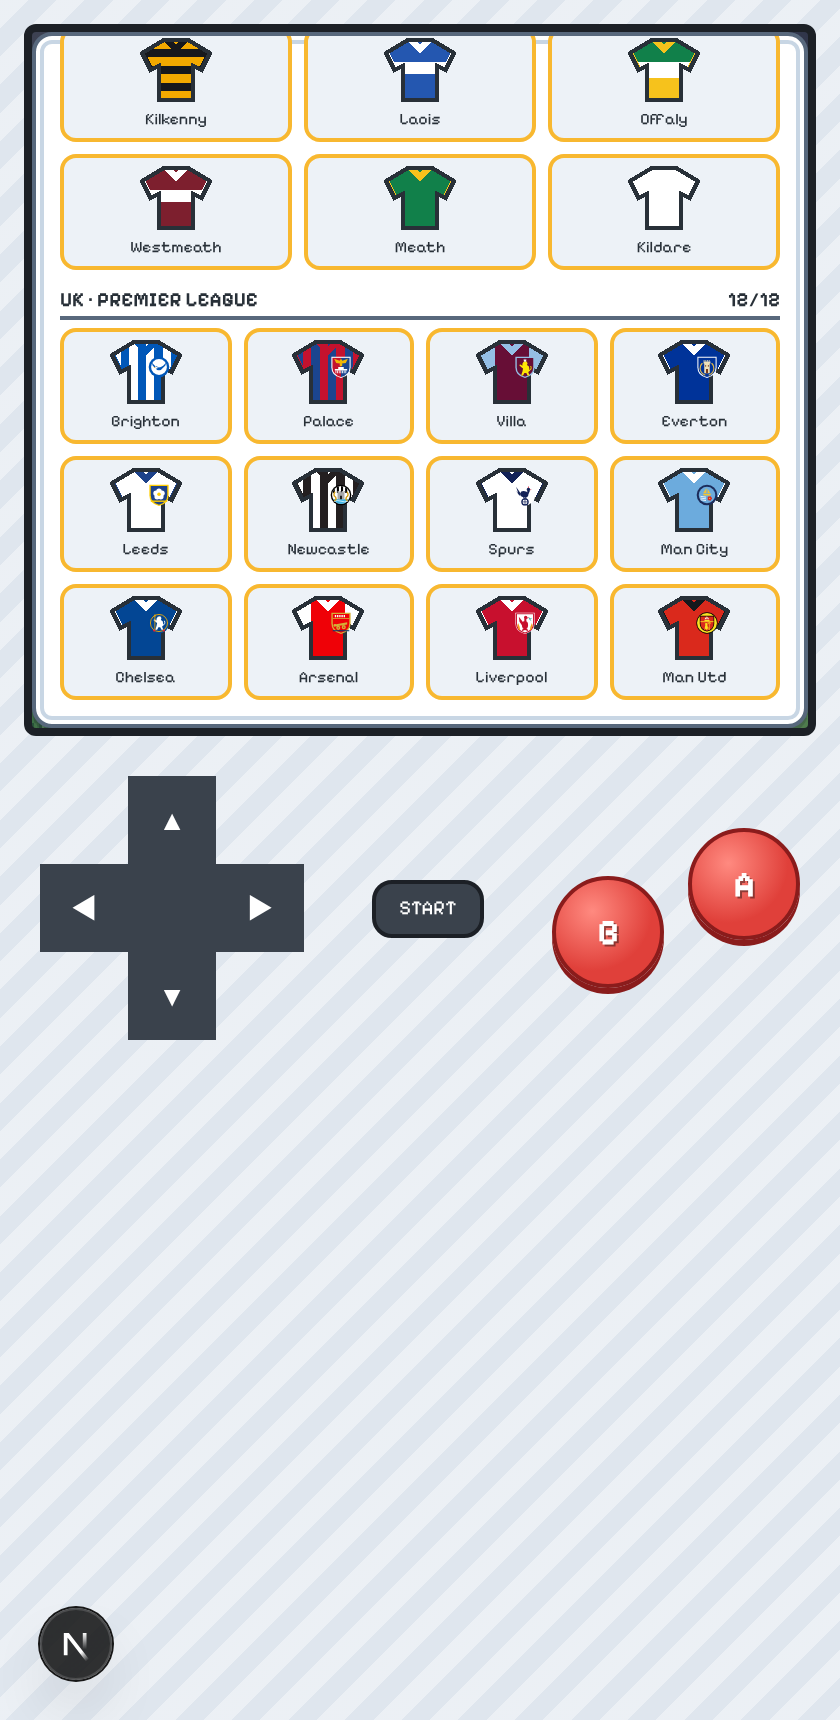
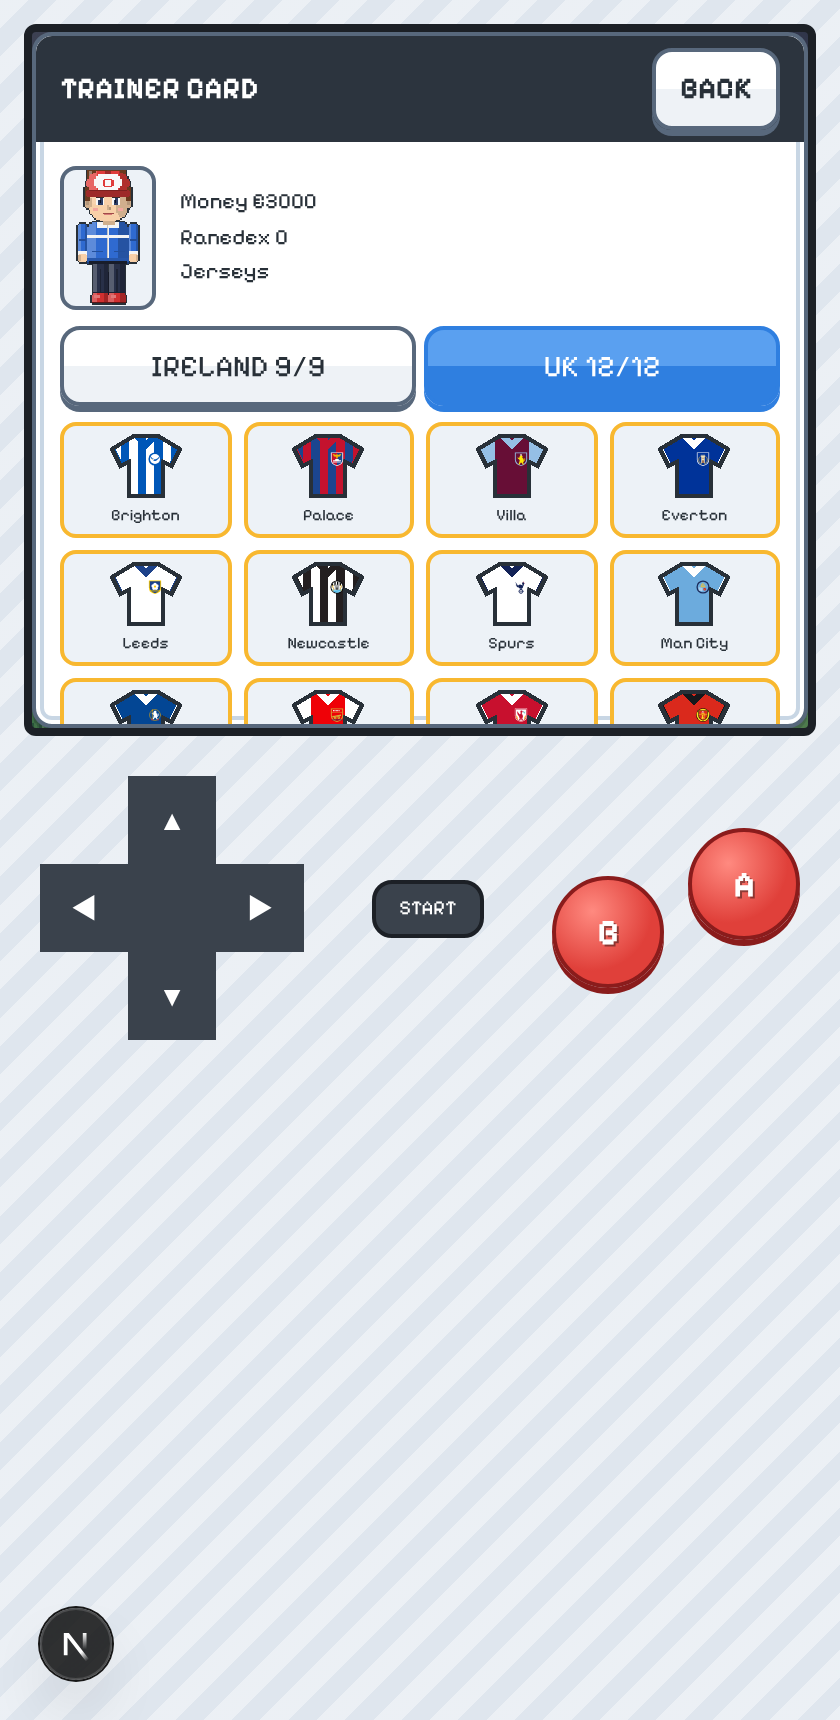
Trainer Card: Ireland and UK jerseys on tabs of their own, smaller crests on the chest
Tap a tab or press left/right on the D-pad to switch. Each tab shows
the won count. Club crests are smaller and sit over the heart.

Claude-Session: https://claude.ai/code/session_01RzSuE49ZsSCh2BwSykvX7o

Changed region(s): [[0.031, 0.0, 0.9595, 0.4314]]

diff --git a/src/components/story/Panels.tsx b/src/components/story/Panels.tsx
@@ -1146,12 +1146,49 @@ export function JerseysPanel({
   game,
   champion = false,
   onClose,
+  navRef,
 }: {
   game: StoryState;
   /** They hold the Online Champion's crown. */
   champion?: boolean;
   onClose: () => void;
+  navRef?: React.RefObject<MenuNav | null>;
 }) {
+  const ireland = COUNTIES.map((id) => {
+    const county = id.charAt(0).toUpperCase() + id.slice(1);
+    return {
+      id,
+      label: county,
+      title: mapById(id).name.split(', ').at(-1)!.replace('Co. ', ''),
+      kit: jerseyOf(id),
+      won: hasFlag(game, `jersey:${id}`),
+    };
+  });
+  const uk = FIXTURE_LIST.map((f) => ({
+    id: `pl-${f.id}`,
+    label: CLUB_SHORT[f.id],
+    title: `${f.club}, ${f.ground}`,
+    kit: clubJerseyOf(f.id),
+    won: hasFlag(game, f.flag),
+    crest: f.id,
+  }));
+  const [tab, setTab] = useState<'ireland' | 'uk'>('ireland');
+  const switchTab = (t: 'ireland' | 'uk') => {
+    if (t === tab) return;
+    playSfx('select');
+    setTab(t);
+  };
+  const tally = (js: { won: boolean }[]) => `${js.filter((j) => j.won).length}/${js.length}`;
+
+  // Left and right on the D-pad flick between the tabs; B closes the card.
+  useMenuNav(navRef, {
+    dir: (dir) => {
+      if (dir === 'left' || dir === 'right') switchTab(tab === 'ireland' ? 'uk' : 'ireland');
+    },
+    a: () => {},
+    b: () => false,
+  });
+
   return (
     <Panel title="TRAINER CARD" onClose={onClose}>
       {champion && (
@@ -1175,46 +1212,30 @@ export function JerseysPanel({
           {hasFlag(game, 'champion') ? 'CHAMPION OF IRELAND' : 'Jerseys'}
         </p>
       </div>
-      <JerseyGroup
-        title="IRELAND"
-        testId="jerseys-ireland"
-        columns="grid-cols-3"
-        jerseys={COUNTIES.map((id) => {
-          const county = id.charAt(0).toUpperCase() + id.slice(1);
-          return {
-            id,
-            label: county,
-            title: mapById(id).name.split(', ').at(-1)!.replace('Co. ', ''),
-            kit: jerseyOf(id),
-            won: hasFlag(game, `jersey:${id}`),
-          };
-        })}
+      <Tabs
+        label="Jerseys"
+        tabs={[
+          { id: 'ireland', label: `IRELAND ${tally(ireland)}` },
+          { id: 'uk', label: `UK ${tally(uk)}` },
+        ]}
+        value={tab}
+        onPick={switchTab}
       />
-      <JerseyGroup
-        title="UK · PREMIER LEAGUE"
-        testId="jerseys-uk"
-        columns="grid-cols-4"
-        jerseys={FIXTURE_LIST.map((f) => ({
-          id: `pl-${f.id}`,
-          label: CLUB_SHORT[f.id],
-          title: `${f.club}, ${f.ground}`,
-          kit: clubJerseyOf(f.id),
-          won: hasFlag(game, f.flag),
-          crest: f.id,
-        }))}
-      />
+      {tab === 'ireland' ? (
+        <JerseyGroup testId="jerseys-ireland" columns="grid-cols-3" jerseys={ireland} />
+      ) : (
+        <JerseyGroup testId="jerseys-uk" columns="grid-cols-4" jerseys={uk} />
+      )}
     </Panel>
   );
 }
 
-/** One country's jerseys on the Trainer Card, with how many of them you've won. */
+/** One country's jerseys on the Trainer Card. */
 function JerseyGroup({
-  title,
   testId,
   columns,
   jerseys,
 }: {
-  title: string;
   testId: string;
   columns: string;
   jerseys: {
@@ -1226,15 +1247,8 @@ function JerseyGroup({
     crest?: ClubId;
   }[];
 }) {
-  const won = jerseys.filter((j) => j.won).length;
   return (
     <section className="flex flex-col gap-1" data-testid={testId}>
-      <h3 className="flex justify-between border-b-2 border-frame text-[10px] font-bold">
-        <span>{title}</span>
-        <span>
-          {won}/{jerseys.length}
-        </span>
-      </h3>
       <div className={`grid ${columns} gap-1.5`}>
         {jerseys.map((j) => (
           <div
@@ -1402,8 +1416,8 @@ function Jersey({
       </svg>
       {/* The crest over the heart, on the wearer's left. */}
       {crest && (
-        <span className="absolute left-[19px] top-[8px]">
-          <Crest club={crest} size={11} />
+        <span className="absolute left-[19px] top-[9px]">
+          <Crest club={crest} size={7} />
         </span>
       )}
     </span>

diff --git a/tests/e2e/story.spec.ts b/tests/e2e/story.spec.ts
@@ -1820,14 +1820,23 @@ test('story mode: the Trainer Card shows the UK jerseys next to the Irish ones',
   await page.getByRole('button', { name: 'START' }).click();
   await page.getByRole('button', { name: 'JERSEYS' }).click();
 
+  await expect(page.getByTestId('tab-ireland')).toContainText('IRELAND 3/9');
+  await expect(page.getByTestId('tab-uk')).toContainText('UK 6/12');
   const ireland = page.getByTestId('jerseys-ireland');
-  const uk = page.getByTestId('jerseys-uk');
-  await expect(ireland).toContainText('3/9');
-  await expect(uk).toContainText('6/12');
   await expect(ireland.getByLabel('Clare jersey', { exact: true })).toBeVisible();
   await expect(ireland.getByLabel('Kildare jersey not won')).toBeVisible();
+  await expect(page.getByTestId('jerseys-uk')).toHaveCount(0);
+
+  // The UK jerseys have a tab of their own, by tap or the D-pad.
+  await page.getByTestId('tab-uk').click();
+  const uk = page.getByTestId('jerseys-uk');
   await expect(uk.getByLabel('Newcastle jersey', { exact: true })).toBeVisible();
   await expect(uk.getByLabel('Man Utd jersey not won')).toBeVisible();
   await expect(uk.locator('svg[data-jersey]')).toHaveCount(6);
+  await expect(page.getByTestId('jerseys-ireland')).toHaveCount(0);
+  await page.keyboard.press('ArrowLeft');
+  await expect(page.getByTestId('tab-ireland')).toHaveAttribute('aria-pressed', 'true');
+  await page.keyboard.press('ArrowRight');
+  await expect(page.getByTestId('tab-uk')).toHaveAttribute('aria-pressed', 'true');
   if (process.env.SHOTS) await page.screenshot({ path: `${process.env.SHOTS}/card.png` });
 });

diff --git a/src/components/story/Story.tsx b/src/components/story/Story.tsx
@@ -785,7 +785,8 @@ export function Story() {
   /** The open menu's own D-pad, A and B: the Ranedex, the BAG or a shop (see `MenuNav`). */
   const menuNav = useRef<MenuNav | null>(null);
   /** Whether the open menu takes the D-pad, A and B itself. */
-  const navMenu = overlay === 'dex' || overlay === 'bag' || overlay === 'shop';
+  const navMenu =
+    overlay === 'dex' || overlay === 'bag' || overlay === 'shop' || overlay === 'card';
 
   function pressA() {
     if (line) return advance();
@@ -1483,7 +1484,7 @@ export function Story() {
         )}
         {overlay === 'dex' && <RanedexPanel game={game} onClose={closeOverlay} navRef={menuNav} />}
         {overlay === 'card' && (
-          <JerseysPanel game={game} champion={champion} onClose={closeOverlay} />
+          <JerseysPanel game={game} champion={champion} onClose={closeOverlay} navRef={menuNav} />
         )}
         {overlay === 'skins' && (
           <SkinsPanel
